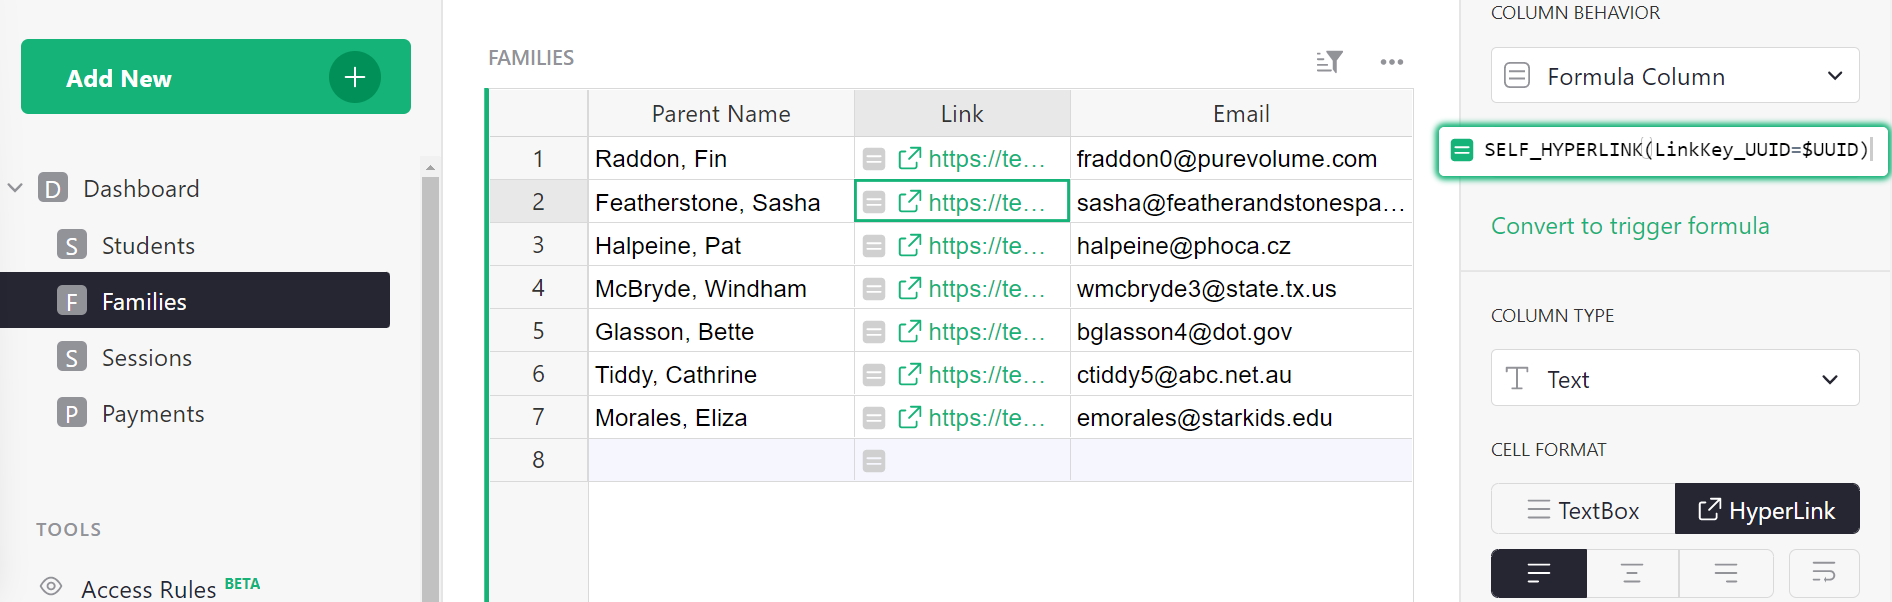
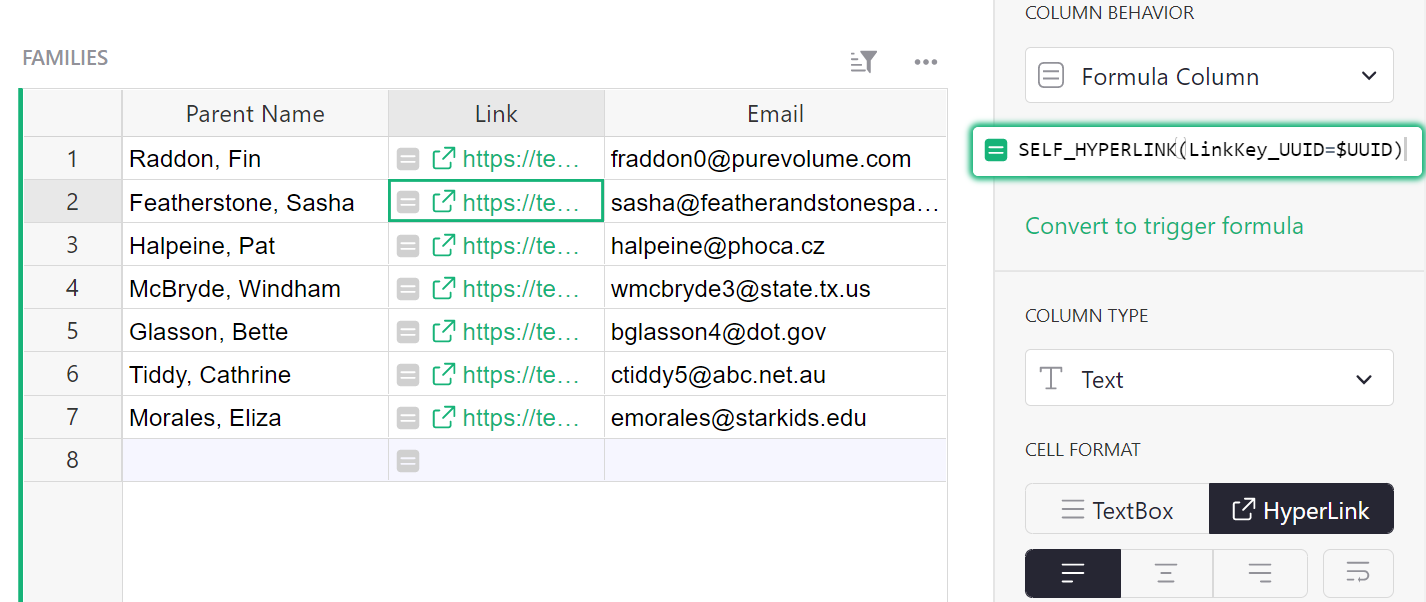
Updated screenshot to remove left-hand page navigation

diff --git a/help/examples/2021-04-link-keys.md b/help/examples/2021-04-link-keys.md
@@ -20,7 +20,7 @@ Let's do that now.
 
 ## Step 1: Create a unique identifier
 
-In the family’s table, create a new column in which you will use Grist’s
+In the families table, create a new column in which you will use Grist’s
 [`UUID()`](../functions.md#uuid) function to generate and assign a unique key to
 each family.
 
